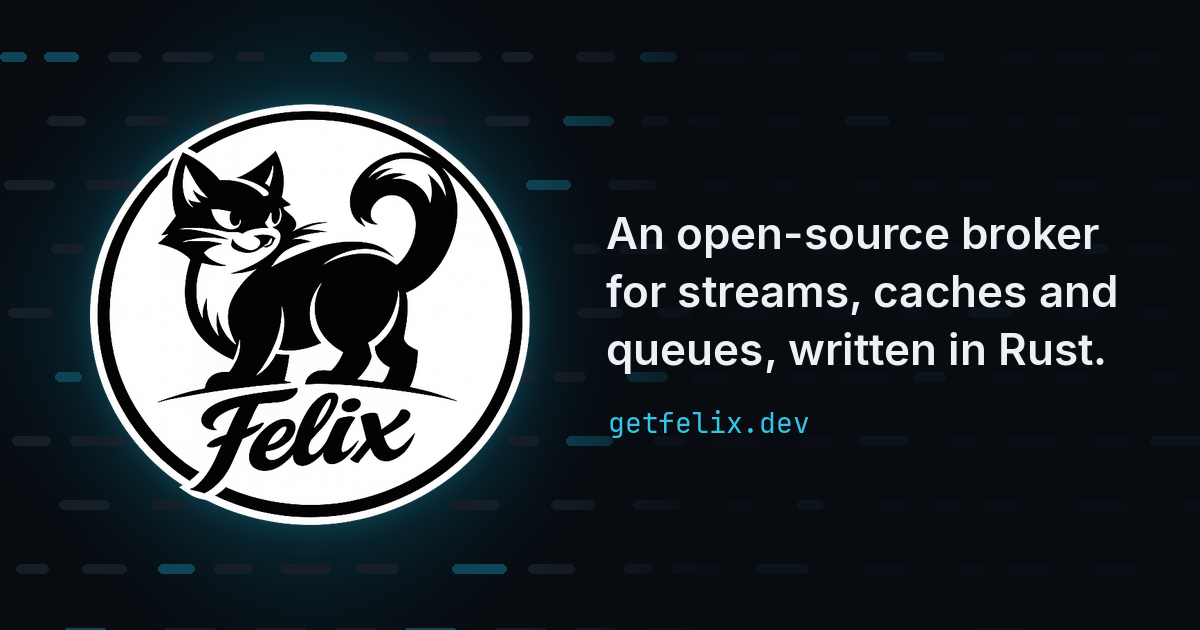
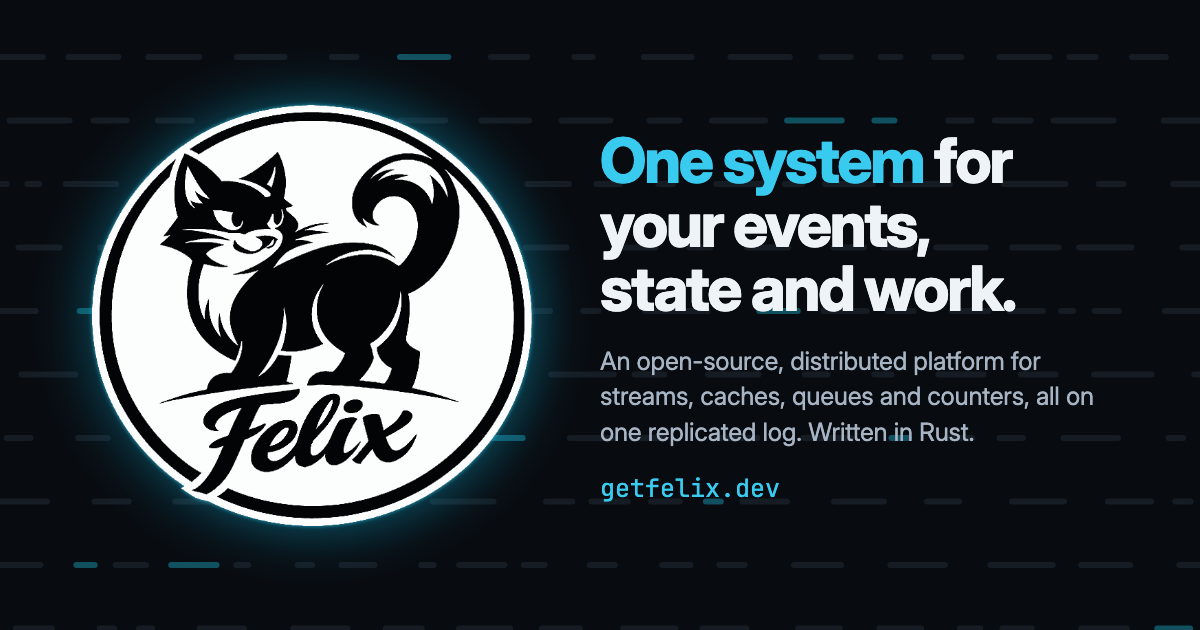
Lead the home page with the new headline (#45)
The hero now says what Felix is for: "One system for your events, state and
work." The logo moves out of the h1 into its own element, the headline
becomes the h1, and the lede carries the new sub-line. The site-wide
description of Felix, the og:image and its alt text use the same wording.

diff --git a/index.html b/index.html
@@ -4,7 +4,7 @@
 <meta charset="utf-8">
 <meta name="viewport" content="width=device-width, initial-scale=1">
 <title>Felix</title>
-<meta name="description" content="Felix is an open-source broker for streams, caches and queues, written in Rust. This is its home, and the home of the projects built on it.">
+<meta name="description" content="Felix is an open-source, distributed platform for streams, caches, queues and counters, all on one replicated log. Written in Rust. This is its home, and the home of the projects built on it.">
 <meta name="color-scheme" content="light dark">
 <meta name="theme-color" content="#f6f8fa" media="(prefers-color-scheme: light)">
 <meta name="theme-color" content="#070a0e" media="(prefers-color-scheme: dark)">
@@ -16,17 +16,17 @@
 <meta property="og:type" content="website">
 <meta property="og:site_name" content="Felix">
 <meta property="og:title" content="Felix">
-<meta property="og:description" content="An open-source broker for streams, caches and queues, written in Rust.">
+<meta property="og:description" content="Felix is an open-source, distributed platform for streams, caches, queues and counters, all on one replicated log. Written in Rust.">
 <meta property="og:url" content="https://getfelix.dev/">
 <meta property="og:image" content="https://getfelix.dev/assets/img/og-image.png">
 <meta property="og:image:width" content="1200">
 <meta property="og:image:height" content="630">
-<meta property="og:image:alt" content="The Felix logo, a cat in a round badge above the word Felix, beside the words: an open-source broker for streams, caches and queues, written in Rust.">
+<meta property="og:image:alt" content="The Felix logo, a cat in a round badge above the word Felix, beside the headline: One system for your events, state and work. Below it: An open-source, distributed platform for streams, caches, queues and counters, all on one replicated log. Written in Rust. getfelix.dev">
 <meta name="twitter:card" content="summary_large_image">
 <link rel="preload" href="/assets/fonts/inter-var.woff2" as="font" type="font/woff2" crossorigin>
-<link rel="preload" as="image" type="image/webp" imagesrcset="/assets/img/felix-logo-320.webp 320w, /assets/img/felix-logo-640.webp 640w" imagesizes="(max-width: 760px) 220px, 300px">
+<link rel="preload" as="image" type="image/webp" imagesrcset="/assets/img/felix-logo-320.webp 320w, /assets/img/felix-logo-640.webp 640w" imagesizes="(max-width: 760px) 156px, 196px">
 <link rel="stylesheet" href="/assets/site.css?v=6ce2b6bb">
-<link rel="stylesheet" href="/assets/home.css?v=ace3d611">
+<link rel="stylesheet" href="/assets/home.css?v=8adae23d">
 <script>
   // Sections that moved to their own pages keep their old links working.
   (function () {
@@ -53,7 +53,7 @@
     "SoftwareSourceCode"
   ],
   "name": "Felix",
-  "description": "Felix is an open-source broker for streams, caches and queues, written in Rust.",
+  "description": "Felix is an open-source, distributed platform for streams, caches, queues and counters, all on one replicated log. Written in Rust.",
   "url": "https://getfelix.dev/",
   "codeRepository": "https://github.com/GetFelix/felix",
   "programmingLanguage": "Rust",
@@ -114,7 +114,7 @@
         Released <!--release:felix:date-->12 October 2026<!--/release:felix:date-->
         <svg viewBox="0 0 24 24" fill="none" stroke="currentColor" stroke-width="2.2" stroke-linecap="round" stroke-linejoin="round" aria-hidden="true"><path d="M5 12h14M13 6l6 6-6 6"/></svg>
       </a>
-      <h1 class="hero-mark" id="hero-title">
+      <div class="hero-mark">
         <svg class="orbit" viewBox="0 0 100 100" aria-hidden="true">
           <circle cx="50" cy="50" r="49" fill="none" stroke="currentColor" stroke-width="0.3" stroke-dasharray="0.3 2.2" opacity="0.5"/>
           <circle cx="50" cy="50" r="49" fill="none" stroke="currentColor" stroke-width="0.8" stroke-linecap="round" stroke-dasharray="6 30 3 48 9 70 4 138" opacity="0.85"/>
@@ -123,11 +123,12 @@
           <circle cx="50" cy="50" r="49.3" fill="none" stroke="currentColor" stroke-width="0.25" stroke-dasharray="14 6" opacity="0.35"/>
         </svg>
         <picture>
-          <source type="image/webp" srcset="/assets/img/felix-logo-320.webp 320w, /assets/img/felix-logo-640.webp 640w" sizes="(max-width: 760px) 220px, 300px">
-          <img src="/assets/img/felix-logo-320.png" srcset="/assets/img/felix-logo-320.png 320w, /assets/img/felix-logo-640.png 640w" sizes="(max-width: 760px) 220px, 300px" alt="Felix" width="300" height="287" fetchpriority="high">
+          <source type="image/webp" srcset="/assets/img/felix-logo-320.webp 320w, /assets/img/felix-logo-640.webp 640w" sizes="(max-width: 760px) 156px, 196px">
+          <img src="/assets/img/felix-logo-320.png" srcset="/assets/img/felix-logo-320.png 320w, /assets/img/felix-logo-640.png 640w" sizes="(max-width: 760px) 156px, 196px" alt="Felix" width="300" height="287" fetchpriority="high">
         </picture>
-      </h1>
-      <p class="lede">An open-source broker for streams, caches and queues, written in Rust.</p>
+      </div>
+      <h1 class="hero-title" id="hero-title"><span class="accent">One system</span> for your events, state and&nbsp;work.</h1>
+      <p class="lede">Felix is an open-source, distributed platform for streams, caches, queues and counters, all on one replicated log. Written in Rust.</p>
       <div class="hero-actions">
         <a class="btn btn-primary" href="https://docs.getfelix.dev">
           <svg viewBox="0 0 24 24" fill="none" stroke="currentColor" stroke-width="2" stroke-linecap="round" stroke-linejoin="round" aria-hidden="true"><path d="M4 19.5V5a2 2 0 0 1 2-2h13v16H6.5A2.5 2.5 0 0 0 4 21.5v-2Z"/><path d="M4 19.5A2.5 2.5 0 0 1 6.5 17H19"/></svg>

diff --git a/assets/home.css b/assets/home.css
@@ -102,6 +102,7 @@
   border-color: var(--accent);
 }
 .release-pill .tag {
+  white-space: nowrap;
   font-family: var(--mono);
   font-size: 12.5px;
   font-weight: 500;
@@ -750,50 +751,84 @@
 
 /* Full logo in the hero. The badge is black on white in both themes, so it
    sits on a teal glow rather than being inverted. */
-.hero h1.hero-mark {
-  width: 300px;
-  height: 287px;
-  margin: 0 auto 8px;
-  font-size: 0;
-  line-height: 0;
-  background: none;
-  color: inherit;
-  padding: 0;
+.hero {
+  padding-top: 64px;
+}
+.hero .release-pill {
+  margin-bottom: 30px;
+}
+.hero .hero-mark {
+  width: 196px;
+  height: 188px;
+  margin: 0 auto 6px;
 }
 .hero-mark::before {
-  inset: -90px;
+  inset: -60px;
 }
 .hero-mark .orbit {
-  inset: -30px;
-  width: calc(100% + 60px);
-  height: calc(100% + 60px);
+  inset: -20px;
+  width: calc(100% + 40px);
+  height: calc(100% + 40px);
 }
 .hero-mark .orbit.inner {
-  inset: -14px;
-  width: calc(100% + 28px);
-  height: calc(100% + 28px);
+  inset: -9px;
+  width: calc(100% + 18px);
+  height: calc(100% + 18px);
 }
 .hero-mark img {
   filter: drop-shadow(0 0 1px hsla(192, 90%, 45%, 0.5)) drop-shadow(0 0 28px var(--accent-glow)) drop-shadow(0 20px 36px rgba(0, 20, 30, 0.28));
 }
+.hero h1.hero-title {
+  max-width: 21ch;
+  margin: 40px auto 0;
+  font-size: clamp(38px, 5.4vw, 64px);
+  font-weight: 750;
+  letter-spacing: -0.035em;
+  line-height: 1.04;
+  text-wrap: balance;
+  padding-bottom: 0.08em;
+}
+.hero-title .accent {
+  background: linear-gradient(100deg, var(--accent-text), color-mix(in srgb, var(--accent-text) 55%, var(--text)));
+  -webkit-background-clip: text;
+  background-clip: text;
+  color: transparent;
+}
 .hero .lede {
-  margin-top: 40px;
+  max-width: 54ch;
+  margin-top: 20px;
+  font-size: clamp(17px, 1.9vw, 20px);
+  text-wrap: balance;
 }
 @media (max-width: 760px) {
-  .hero h1.hero-mark {
-    width: 220px;
-    height: 210px;
+  .hero {
+    padding-top: 48px;
+  }
+  .hero .release-pill {
+    margin-bottom: 26px;
+  }
+  .hero .hero-mark {
+    width: 156px;
+    height: 149px;
   }
   .hero-mark::before {
-    inset: -60px;
+    inset: -46px;
   }
   .hero-mark .orbit {
-    inset: -22px;
-    width: calc(100% + 44px);
-    height: calc(100% + 44px);
+    inset: -16px;
+    width: calc(100% + 32px);
+    height: calc(100% + 32px);
+  }
+  .hero-mark .orbit.inner {
+    inset: -7px;
+    width: calc(100% + 14px);
+    height: calc(100% + 14px);
+  }
+  .hero h1.hero-title {
+    margin-top: 30px;
   }
   .hero .lede {
-    margin-top: 32px;
+    margin-top: 16px;
   }
 }
 

diff --git a/404.html b/404.html
@@ -4,7 +4,7 @@
 <meta charset="utf-8">
 <meta name="viewport" content="width=device-width, initial-scale=1">
 <title>Page not found · Felix</title>
-<meta name="description" content="Felix is an open-source broker for streams, caches and queues, written in Rust. This is its home, and the home of the projects built on it.">
+<meta name="description" content="Felix is an open-source, distributed platform for streams, caches, queues and counters, all on one replicated log. Written in Rust. This is its home, and the home of the projects built on it.">
 <meta name="color-scheme" content="light dark">
 <meta name="theme-color" content="#f6f8fa" media="(prefers-color-scheme: light)">
 <meta name="theme-color" content="#070a0e" media="(prefers-color-scheme: dark)">
@@ -16,12 +16,12 @@
 <meta property="og:type" content="website">
 <meta property="og:site_name" content="Felix">
 <meta property="og:title" content="Felix">
-<meta property="og:description" content="An open-source broker for streams, caches and queues, written in Rust.">
+<meta property="og:description" content="Felix is an open-source, distributed platform for streams, caches, queues and counters, all on one replicated log. Written in Rust.">
 <meta property="og:url" content="https://getfelix.dev/">
 <meta property="og:image" content="https://getfelix.dev/assets/img/og-image.png">
 <meta property="og:image:width" content="1200">
 <meta property="og:image:height" content="630">
-<meta property="og:image:alt" content="The Felix cat mark beside the words: Felix, an open-source broker for streams, caches and queues, written in Rust.">
+<meta property="og:image:alt" content="The Felix logo, a cat in a round badge above the word Felix, beside the headline: One system for your events, state and work. Below it: An open-source, distributed platform for streams, caches, queues and counters, all on one replicated log. Written in Rust. getfelix.dev">
 <meta name="twitter:card" content="summary_large_image">
 <link rel="preload" href="/assets/fonts/inter-var.woff2" as="font" type="font/woff2" crossorigin>
 <link rel="stylesheet" href="/assets/site.css?v=6ce2b6bb">

diff --git a/features.html b/features.html
@@ -21,7 +21,7 @@
 <meta property="og:image" content="https://getfelix.dev/assets/img/og-image.png">
 <meta property="og:image:width" content="1200">
 <meta property="og:image:height" content="630">
-<meta property="og:image:alt" content="The Felix logo, a cat in a round badge above the word Felix, beside the words: an open-source broker for streams, caches and queues, written in Rust.">
+<meta property="og:image:alt" content="The Felix logo, a cat in a round badge above the word Felix, beside the headline: One system for your events, state and work. Below it: An open-source, distributed platform for streams, caches, queues and counters, all on one replicated log. Written in Rust. getfelix.dev">
 <meta name="twitter:card" content="summary_large_image">
 <link rel="preload" href="/assets/fonts/inter-var.woff2" as="font" type="font/woff2" crossorigin>
 <link rel="stylesheet" href="/assets/site.css?v=6ce2b6bb">

diff --git a/guarantees.html b/guarantees.html
@@ -21,7 +21,7 @@
 <meta property="og:image" content="https://getfelix.dev/assets/img/og-image.png">
 <meta property="og:image:width" content="1200">
 <meta property="og:image:height" content="630">
-<meta property="og:image:alt" content="The Felix logo, a cat in a round badge above the word Felix, beside the words: an open-source broker for streams, caches and queues, written in Rust.">
+<meta property="og:image:alt" content="The Felix logo, a cat in a round badge above the word Felix, beside the headline: One system for your events, state and work. Below it: An open-source, distributed platform for streams, caches, queues and counters, all on one replicated log. Written in Rust. getfelix.dev">
 <meta name="twitter:card" content="summary_large_image">
 <link rel="preload" href="/assets/fonts/inter-var.woff2" as="font" type="font/woff2" crossorigin>
 <link rel="stylesheet" href="/assets/site.css?v=6ce2b6bb">

diff --git a/performance.html b/performance.html
@@ -21,7 +21,7 @@
 <meta property="og:image" content="https://getfelix.dev/assets/img/og-image.png">
 <meta property="og:image:width" content="1200">
 <meta property="og:image:height" content="630">
-<meta property="og:image:alt" content="The Felix logo, a cat in a round badge above the word Felix, beside the words: an open-source broker for streams, caches and queues, written in Rust.">
+<meta property="og:image:alt" content="The Felix logo, a cat in a round badge above the word Felix, beside the headline: One system for your events, state and work. Below it: An open-source, distributed platform for streams, caches, queues and counters, all on one replicated log. Written in Rust. getfelix.dev">
 <meta name="twitter:card" content="summary_large_image">
 <link rel="preload" href="/assets/fonts/inter-var.woff2" as="font" type="font/woff2" crossorigin>
 <link rel="stylesheet" href="/assets/site.css?v=6ce2b6bb">

diff --git a/status.html b/status.html
@@ -21,7 +21,7 @@
 <meta property="og:image" content="https://getfelix.dev/assets/img/og-image.png">
 <meta property="og:image:width" content="1200">
 <meta property="og:image:height" content="630">
-<meta property="og:image:alt" content="The Felix logo, a cat in a round badge above the word Felix, beside the words: an open-source broker for streams, caches and queues, written in Rust.">
+<meta property="og:image:alt" content="The Felix logo, a cat in a round badge above the word Felix, beside the headline: One system for your events, state and work. Below it: An open-source, distributed platform for streams, caches, queues and counters, all on one replicated log. Written in Rust. getfelix.dev">
 <meta name="twitter:card" content="summary_large_image">
 <link rel="preload" href="/assets/fonts/inter-var.woff2" as="font" type="font/woff2" crossorigin>
 <link rel="stylesheet" href="/assets/site.css?v=6ce2b6bb">
